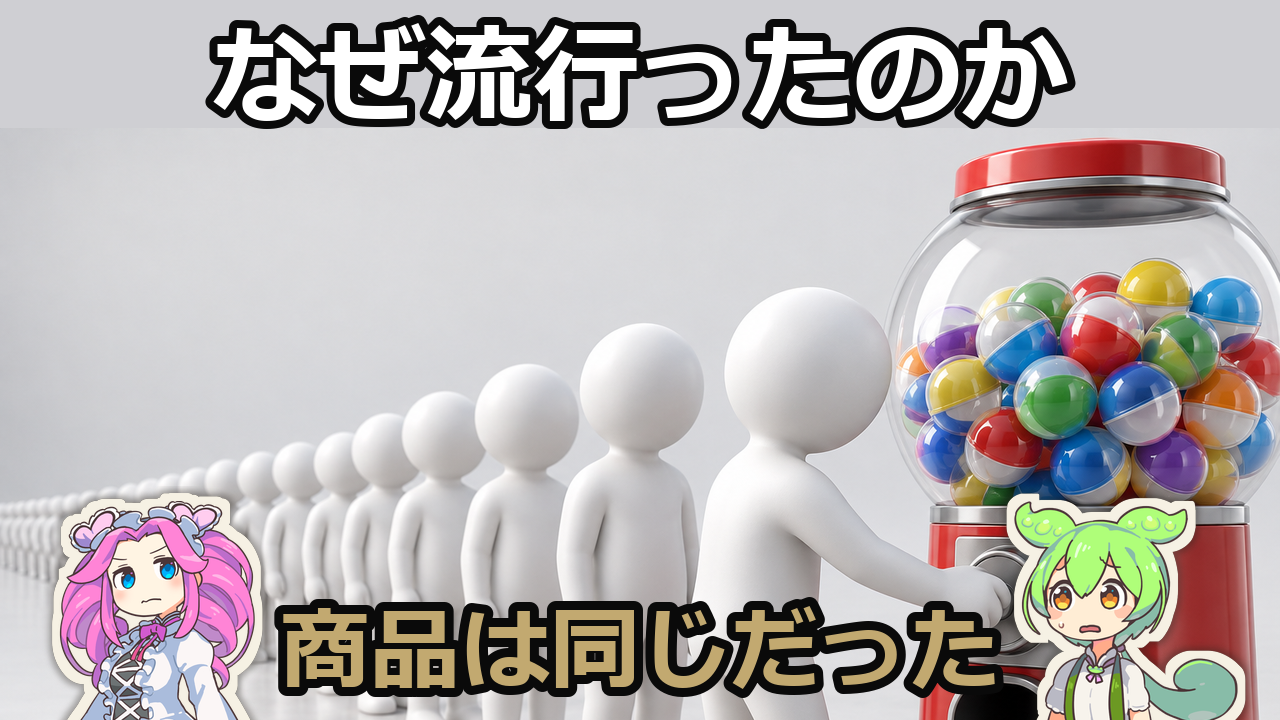
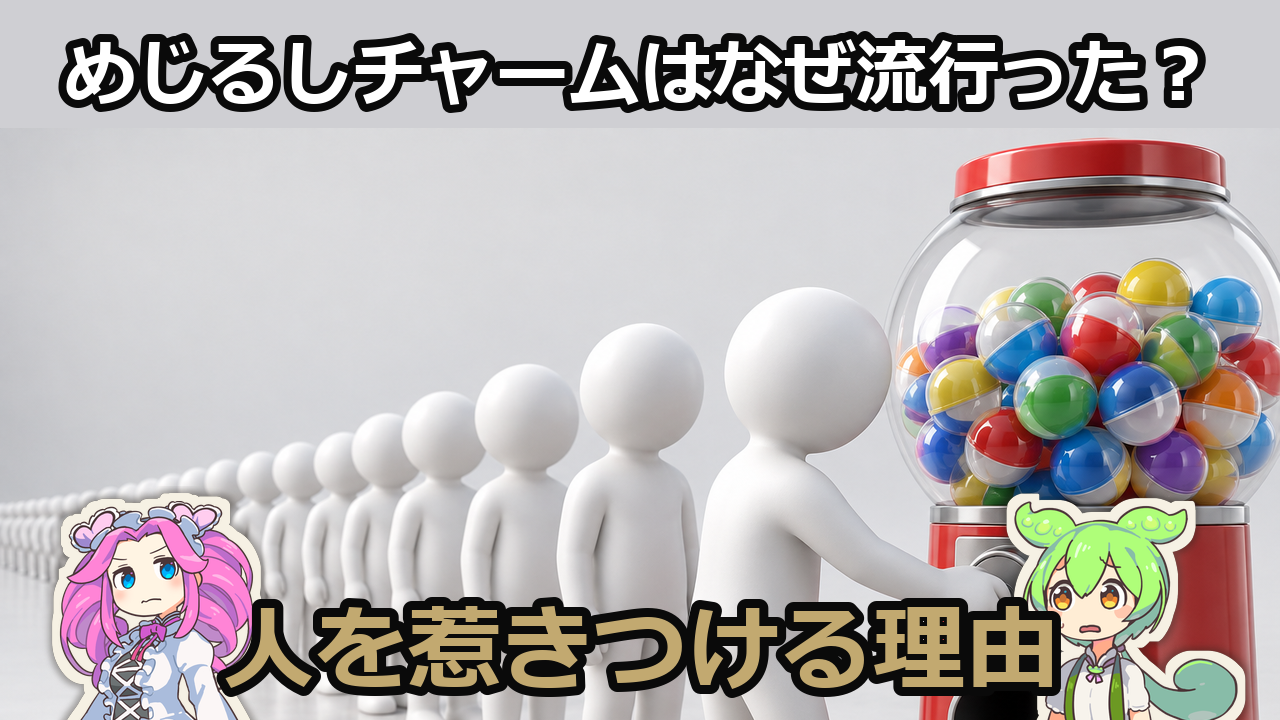
めじるし（紙芝居版）: サムネは B を採用、文言「めじるしチャームはなぜ流行った？／人を惹きつける理由」（ユーザー指定）で VwSNZYYcDG0 に適用 #40

Changed region(s): [[0.0312, 0.0, 0.9688, 0.1833], [0.1562, 0.825, 0.8438, 0.9778]]

diff --git a/publish/20260917-mejirushi-kamishibai/make_thumbs_def.py b/publish/20260917-mejirushi-kamishibai/make_thumbs_def.py
@@ -42,12 +42,12 @@ WHITE = (255, 255, 255, 255)
 GOLD = (194, 169, 112, 255)  # design-chic-tone.md の金アクセント #C2A970
 BLACK_STROKE = (10, 10, 10, 255)
 
-TITLE_TOP = "なぜ流行ったのか"
+TITLE_TOP = "めじるしチャームはなぜ流行った？"  # 採用 B（ユーザー指定 2026-09-17。旧「なぜ流行ったのか」）
 
 # (背景ファイル, 下帯の文言, 出力ファイル名, めたんの表情, ずんだもんの表情)
 VARIANTS = [
     ("bg-A.png", "6年前からあった", "thumb-A.png", "explain", "surprised"),
-    ("bg-B.png", "商品は同じだった", "thumb-B.png", "serious", "confused"),
+    ("bg-B.png", "人を惹きつける理由", "thumb-B.png", "serious", "confused"),  # 採用案（ユーザー指定「人を魅きつける理由」→ 常用の「惹」で組版。旧「商品は同じだった」）
     ("bg-C.png", "みんな同じで、私だけ違う", "thumb-C.png", "smile", "thinking"),
 ]
 

diff --git a/publish/20260917-mejirushi-kamishibai/upload-record.md b/publish/20260917-mejirushi-kamishibai/upload-record.md
@@ -5,7 +5,7 @@ Issue #40。
 
 | 日時 | 版 | 動画ID | 状態 | 内容 |
 |---|---|---|---|---|
-| 2026-09-17 | v1 | VwSNZYYcDG0 | **非公開（試写用）** | 12:01（終了カード込み）。台本 v3（8 シーン・3,791 字）。レビュー 6 種＋間＋ビート適合表を反映。サムネ **A（暫定。ユーザー選択後に thumbnails.set で差し替え）**、字幕 ja、概要欄 description-v2.txt（章 8、v1 timeline）。 |
+| 2026-09-17 | v1 | VwSNZYYcDG0 | **非公開（試写用）** | 12:01（終了カード込み）。台本 v3（8 シーン・3,791 字）。レビュー 6 種＋間＋ビート適合表を反映。サムネ **A（暫定）→ 2026-09-17 に B（`thumb-B.png`、上帯「めじるしチャームはなぜ流行った？」／下帯「人を惹きつける理由」。ユーザー指定）へ thumbnails.set で差し替え済み**、字幕 ja、概要欄 description-v2.txt（章 8、v1 timeline）。 |
 | | | | | |
 
 - 概要欄: `description-v1.txt`（`__CHAPTERS__` はレンダ後に `fill_chapters.py` で
@@ -15,3 +15,5 @@ Issue #40。
   （Codex 生成、`thumb-bg/bg-{A,B,C}.png` が合成に使った作業用コピー）。
   採用案・確定後の下帯文言はユーザー選択後にここへ追記する。
 - レンダ完了後、`--end-card` を付けて終了カードを含めること。
+
+- **採用サムネ: B**（白い棒人間のガチャの行列、先頭が回す。ユーザー選択 2026-09-17）。文言はユーザー指定「めじるしチャームはなぜ流行った？／人を魅きつける理由」。「魅きつける」は常用外なので「惹きつける」で組版（要確認）。「？」は付けない。
